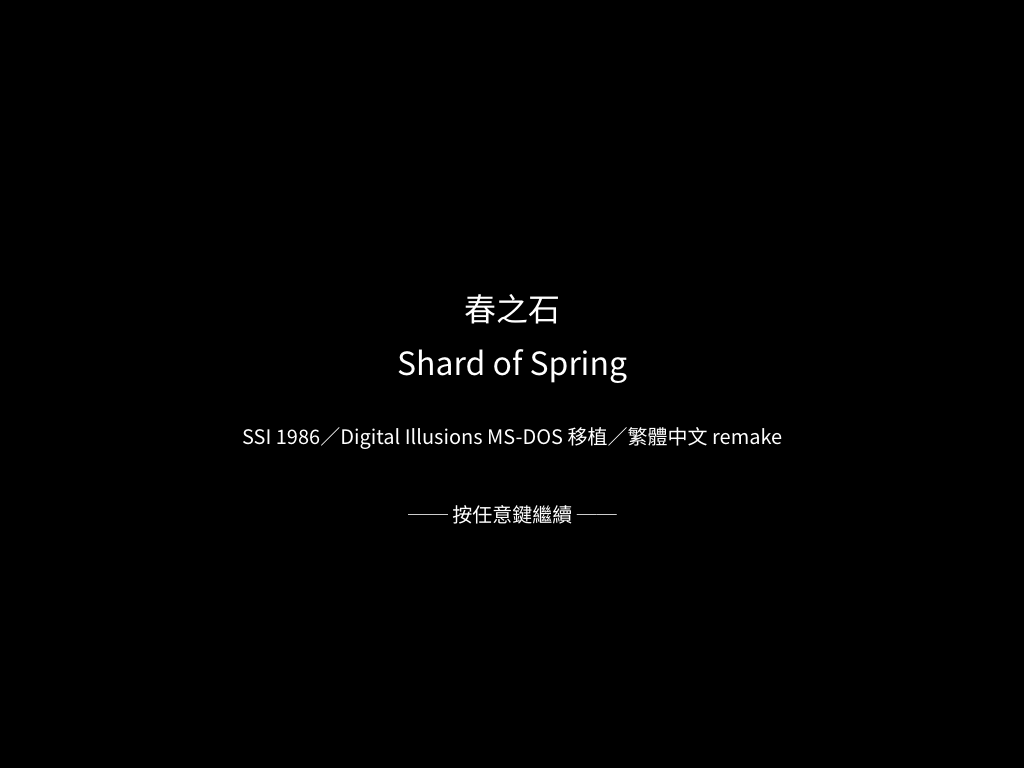
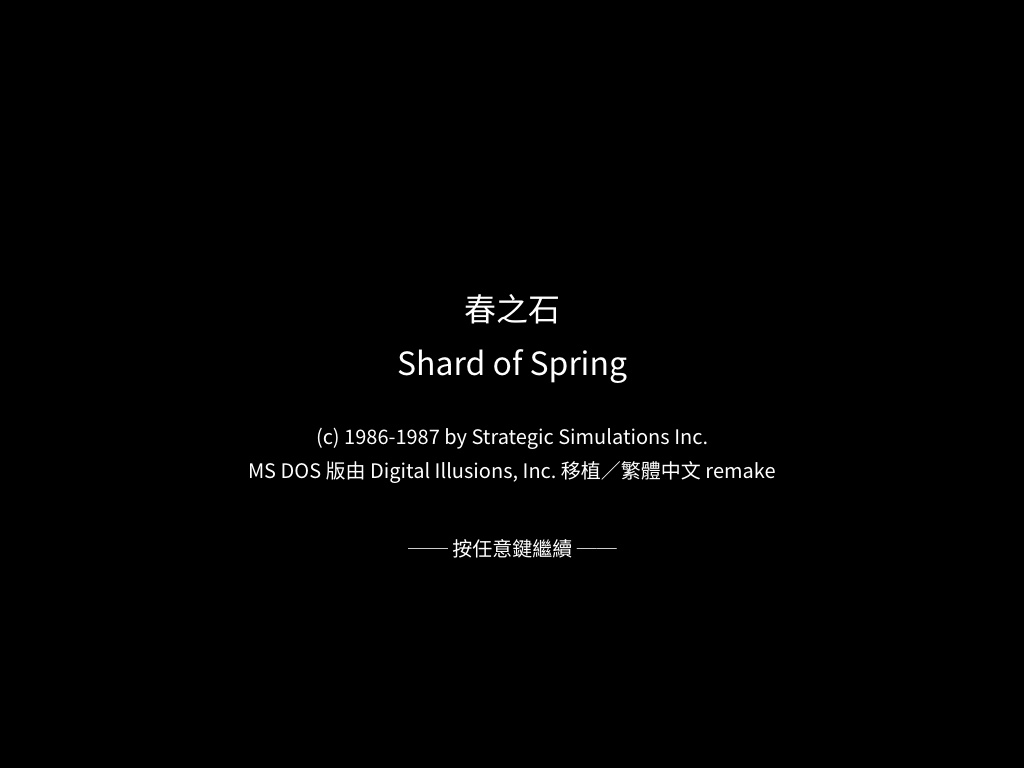
F2 結案:譯名方向照精訊,並重跑資產把停在舊詞的 18 處補上
專案負責人裁定(2026-08-16)三件事:

1. 拉利斯的怪物名去掉字母間距:「拉 利 斯(R A L I T H)」→「拉利斯(RALITH)」。
   原版的 MONSTERS.DAT 確實是空格隔開的 `R A L I T H`,但照抄那個間距在
   中文畫面上讀起來像壞掉。
2. docs/manual/README.md 的「衝突」段改寫成已裁決的現況。
3. translations/README.md 的專有名詞規則寫明:中文(英文)對照。

⚠ 收尾時發現的真缺口:**assets/ 停在舊詞**。2026-08-14 的裁定把 WIZARD
從「法師」改成精訊的「巫師」,TSV 全改了,但 cmd/convert 沒重跑 ——
版控裡的 assets/ 還有 18 處「法師」(怪物 3、傳聞 13、商店 2),
也就是**畫面上顯示的仍是舊詞**。

這個缺口不會被任何測試抓到:TSV 自洽、assets 自洽、引擎讀 assets 也自洽,
三邊各自都對,只是中間那一步沒跑。判準寫進 translations/README.md:
改完譯名要重跑轉換,並比對 assets/ 的 diff 只有預期的那幾行。

重跑 cmd/convert 之後 assets/ 的差異正好是 18 處法師→巫師 + RALITH 一處,
沒有其他漂移(轉換器對同一份輸入是可重現的)。

順帶更新 docs/images/01-title.png —— 那張停在更早的標題版面(單行版權)。

Changed region(s): [[0.25, 0.5312, 0.7812, 0.625], [0.4375, 0.6562, 0.5625, 0.75]]

diff --git a/docs/spec/14-remake-worklist.md b/docs/spec/14-remake-worklist.md
@@ -30,7 +30,7 @@ go run . -slot 5      →  直接出現在世界地圖,隊伍是原版存檔的 
 **T1/T2/T3 三層迴歸網都在**:端到端一輪、同種子快照、16 個場景的按鍵接線
 + 派工表順序。
 
-缺的是 **D(戰鬥 AI,⛔ 卡在 RE)** 與 **F/G(中文化剩餘與打包)**。
+缺的是 **D(戰鬥 AI,⛔ 卡在 RE)** 與 **G(字型、跨平台 build、玩家轉檔文件)**。
 **C2(切成 vertical slice)暫緩**,§4 有重啟的判準。
 
 ## 0.1 ⭐ 下一步(新 session 從這裡開始)
@@ -39,8 +39,8 @@ go run . -slot 5      →  直接出現在世界地圖,隊伍是原版存檔的 
 
 | 順序 | 做什麼 | 為什麼是它 |
 |---:|---|---|
-| **1** | **F2 譯名衝突裁決**(§7)| ⛔ **要專案負責人裁決**,不是 coding 能決定的 —— 精訊 1987 官方譯名 vs glossary 硬規則 4 |
-| 2 | G1 字型授權 → G2 跨平台 build → G3 玩家轉檔文件 | G1 先做,**選字型先看授權** |
+| **1** | G1 字型選定(§7)| **選字型先看授權** —— 要可再散布的,這一條決定 G2 能不能打包 |
+| 2 | G2 跨平台 build → G3 玩家轉檔流程文件 | macOS 沒有機器 → skill `osxcross-macos-cross-build` |
 
 
 **可以並行、不擋主線的小項**:E4(商店買給誰,⛔ RE 問題)、E6(遭遇倒數重置值,未解)、
@@ -176,7 +176,7 @@ DGROUP 工具 —— 那一輪已經用它解掉四個「執行期變數」。
 | | 項目 | 說明 |
 |---|---|---|
 | ~ | F1 模組內文本 | 規格 [`19`](19-module-text.md)。⚠ **「1,012 段」是誤導的工作量** —— 拆完主體是 **66 句 + 一批篩過的短語**(207 段是選單字母、`MENU` 的 47 句是換磁片與安裝)。**副產品是覆蓋率稽核**:原版的字串就是「引擎缺什麼功能」的現成檢查表。✅ 清冊 828 段全分類、370 段新譯、稽核報告 [`19-coverage`](19-coverage.md);✅ **54 段接回引擎**並有 `tools/check_module_text.py` 擋漂移;⬜ 其餘 316 段沒有對應的顯示位置(引擎自己的訊息 / 功能不存在)|
-| [ ] | F2 譯名衝突裁決 | 精訊 1987 官方譯名 vs glossary 硬規則 4(音譯):`WARRIOR`、專有名詞([`docs/manual/README.md`](../manual/README.md))。**待專案負責人裁決** |
+| [x] | F2 譯名衝突裁決 | **已裁定(2026-08-14 以精訊為主 + 2026-08-16 收尾)**:符文系別、`MELT`、`SWORD`、`WARRIOR`、`WIZARD` 全照精訊;專有名詞採**中文(英文)對照**(glossary 硬規則 4)。⚠ 收尾時發現 `assets/` 停在舊詞(18 處「法師」),TSV 改了但沒重跑 `cmd/convert` —— **兩邊各自自洽,沒有任何測試會紅**([`translations/README.md`](../../translations/README.md) 判準二)|
 | [ ] | G1 字型選定 | 要可再散布的授權([`04`](04-display-layout.md) §4)。**選字型先看授權** |
 | [ ] | G2 跨平台 build | docker 出 Windows / macOS / Linux。macOS 沒有機器 → skill `osxcross-macos-cross-build` |
 | [ ] | G3 玩家的轉檔流程 | 玩家自備原版 → `cmd/convert` → 可玩。**這一步要有文件**,否則散布出去沒人跑得起來 |

diff --git a/CONTEXT.md b/CONTEXT.md
@@ -158,6 +158,7 @@
 | **經驗值已定位** | `CHARS.DAT` **位移 90–93,MBF 單精度**(`docs/re/150`)。引擎已改成讀寫原版記錄,旁掛的 `save/exp.json` 移除。⚠ **每一場給多少**仍未解 —— 均分是具名假設 |
 | **迷宮機關已接上畫面** | 觸發點就是**事件目標編號**(`docs/re/161` §3):518 治療池、532 寶石謎題、705 Eldron 氏族謎題、204/533 劇情。⚠ 204/533 的**內容未解**(沒讀到怪物組成),引擎只顯示文字並標未解;⚠ 事件的「一次性作廢」沒實作 —— 它的前提是一個未解的字串比較 |
 | **引擎 M0–M8 全部完成** | 世界地圖、角色與存檔、戰鬥、迷宮與事件、法術與道具、中文化上線、城鎮/商店/營地/名冊。⚠ 各里程碑的未解項見 `docs/spec/03-engine-plan.md` 的狀態欄 |
+| **譯名方向已裁定** | 以精訊 1987 為主(符文系別、`MELT`、`SWORD`、`WARRIOR`、`WIZARD`);專有名詞用**中文(英文)對照**(`translations/glossary.md` 硬規則 4)。⚠ **改 TSV 不等於畫面會變** —— `assets/` 是 `cmd/convert` 的產生物,曾經停在舊詞 18 處而兩邊各自自洽、沒有測試會紅 |
 | **迴歸網三層(T1/T2/T3)** | `engine/integration_test.go` + `scene_test.go`:讀**版控裡的真資產**無頭跑完一輪(讀檔 → 走路 → 戰鬥 → 進城 → 買東西 → 存檔 → 讀回)、同種子跑兩次比指紋、16 個場景各一條「按下去有反應」+ 派工表順序。**全部走 `Update()` 的真按鍵路徑**,所以接線本身也在涵蓋範圍內 |
 | **場景介面(C1/C3)** | `engine/scene.go`:16 個場景 + 兩張順序表 —— `inputChain()` 是**優先序**(誰吃這一格按鍵)、`drawOrder()` 是**圖層**(誰蓋在誰上面),兩者不同也不該一致。輸入整格只收一次。C3 再把訊息面板收進 `engine/message.go`,指令提示列改由 `Scene.Prompt()` 提供、畫時問**實際接手的場景**。⚠ **狀態還在 `*Game` 上**(C2 暫緩,判準見 `docs/spec/14` §4)|
 | **提示列曾經是錯的** | 提示列先前自己寫了一份 switch 猜「現在是哪個畫面」,與 `Update()` 的派工兩份各自演化 —— 戰鬥那一行停在「空白鍵:推進一回合」(M10 移除)與「C:施法(固定投一級)」(E5 已改),**三項全錯而畫面上看不出是舊的**。判準:**同一件事只能有一個出處**;`TestCombatPromptIsNotStale` 擋它回來 |

diff --git a/docs/manual/README.md b/docs/manual/README.md
@@ -112,20 +112,27 @@
 `k₁`(`ds:9460h`)在反組譯裡走**乘法**,而力量加值是**加**項,形狀不合
 ([`re/140`](../re/140-manual-stat-tables.md) §2)。這張表落在傷害公式的哪一項**未解**。
 
-## 譯名:1987 年的官方前例與本專案 glossary 衝突
+## 譯名:本專案採用精訊 1987 的官方前例
 
-手冊有一整套精訊的官方譯名,與
-[`translations/glossary.md`](../../translations/glossary.md) 多處不同:
+**專案負責人裁定 2026-08-14:以精訊翻譯為主。** 手冊有的詞一律照用,
+手冊沒有的才由 [`translations/glossary.md`](../../translations/glossary.md) 補,比照它的風格。
 
-| 英文 | 精訊 1987 | 本專案現行 |
-|---|---|---|
-| `FIRE RUNES` / `METAL RUNES` | 火誌 / 金誌 | 火之符文 / 金之符文 |
-| `MELT` | 溶解術 | 融化術 |
-| `SWORD`(法術) | 劍術 | 劍刃術 |
-| `WARRIOR` 職業 | 戰士 | 勇者(對應 `CHARS.DAT` 的 `Hero`)|
-| `YMROS` / `SIRIADNE` / `RALITH` | **保留英文大寫** | 音譯 |
+| 英文 | 現行譯名(＝精訊) |
+|---|---|
+| `FIRE` / `METAL` / `WIND` / `ICE` / `SPIRIT RUNES` | 火誌 / 金誌 / 風誌 / 冰誌 / 精神之誌 |
+| `MELT` | 溶解術 |
+| `SWORD`(法術) | 劍術 |
+| `WARRIOR` 職業 | 戰士(`Hero` / `Warrior` / `Fighter` 三個詞是同一個職業)|
+| `WIZARD` 職業 | 巫師 |
 
-最後兩列是**方向性衝突**:精訊的專有名詞不譯,而 glossary 硬規則 4 是一律音譯;
-職業名精訊用「戰士」,而本專案把「戰士」留給怪物 `Fighter`。
+**專有名詞**(人名、地名、城鎮、商店、地城)另有一條規則。
+精訊當年賣的是英文版遊戲 + 中文說明書,**畫面本身沒有中文化** ——
+手冊裡的專有名詞保留英文不是譯名決策,是他們沒動到那一層。
+remake 的畫面是中文的,因此採**中文(英文)對照**格式
+(glossary 硬規則 4,同一次裁定):
 
-**待專案負責人裁決**,結論回填 glossary。
+```
+希瑞雅妮(Siriadne)   拉利斯(Ralith)   艾德林要塞(Edrin's Keep)
+```
+
+⚠ **普通名詞不加註** —— `Orc` 半獸人、`Dagger` 匕首是種類不是名字。

diff --git a/translations/README.md b/translations/README.md
@@ -131,13 +131,16 @@ translations/
 怪物表把 `Siriadne` / `Devir` / `Murthin` 等音譯成中文,地城敘述卻保留英文 ——
 同一個角色在戰鬥畫面與房間文字裡變成兩個人。**已統一。**
 
-⚠ 統一的**方向後來反過來了**:第一輪依當時的硬規則 4 全部改成音譯(25 列),
-手冊出現後改採精訊做法,**劇情專有名詞回退為英文**(19 列 + 怪物表 9 列)。
-判準見 [`CONTEXT.md`](../CONTEXT.md) §6:**有官方前例存在時先去找那份前例,
-不要先造自己的規則。**
+現行規則是**專有名詞:中文(英文)對照**(glossary 硬規則 4,專案負責人裁定 2026-08-14)——
+人名、地名、城鎮名、商店名、地城名一律適用,同一段第一次出現才加註;
+普通名詞(`Orc`、`Dagger`)不加註。
 
 > **判準**:分頭翻譯的批次之間,**專有名詞是最容易分裂的一項**,
 > 因為每一批單獨看都自洽。收件時要跨批次掃同一個詞,不能只驗每一批內部。
+>
+> **判準二**:改了 `translations/` 的 TSV **不等於畫面會變** ——
+> `assets/` 是 `cmd/convert` 的產生物,不重跑就還是舊詞,而兩邊各自都自洽、
+> 沒有任何測試會紅。改完譯名要重跑轉換,並比對 `assets/` 的 diff 只有預期的那幾行。
 
 ### 唯一不譯的字串
 

diff --git a/docs/re/125-manual-confirms-spells.md b/docs/re/125-manual-confirms-spells.md
@@ -146,5 +146,5 @@
 | 項目 | 狀態 |
 |---|---|
 | 其餘 45 頁的內容 | 抄錄中(`docs/manual/raw/`)|
-| 譯名方向(沿用精訊 vs 自己音譯) | **待專案負責人裁決**(§3)|
+| ~~譯名方向~~ | **已裁定**:以精訊為主,專有名詞用中文(英文)對照([`translations/glossary.md`](../../translations/glossary.md) 硬規則 4)|
 | 手冊有沒有屬性→加值表 | 待抄錄完確認 |
